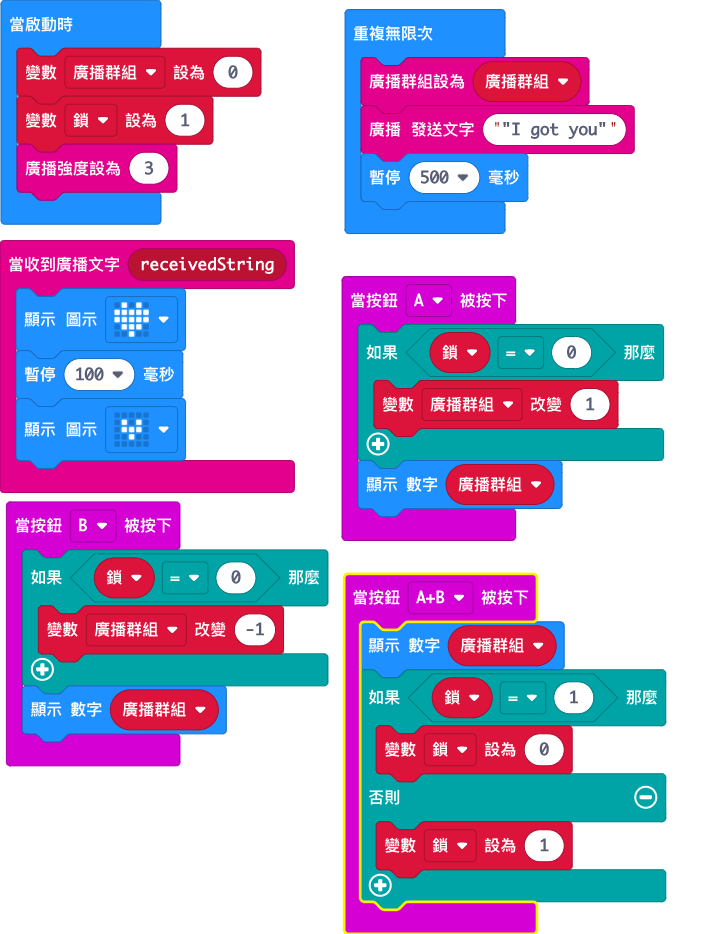
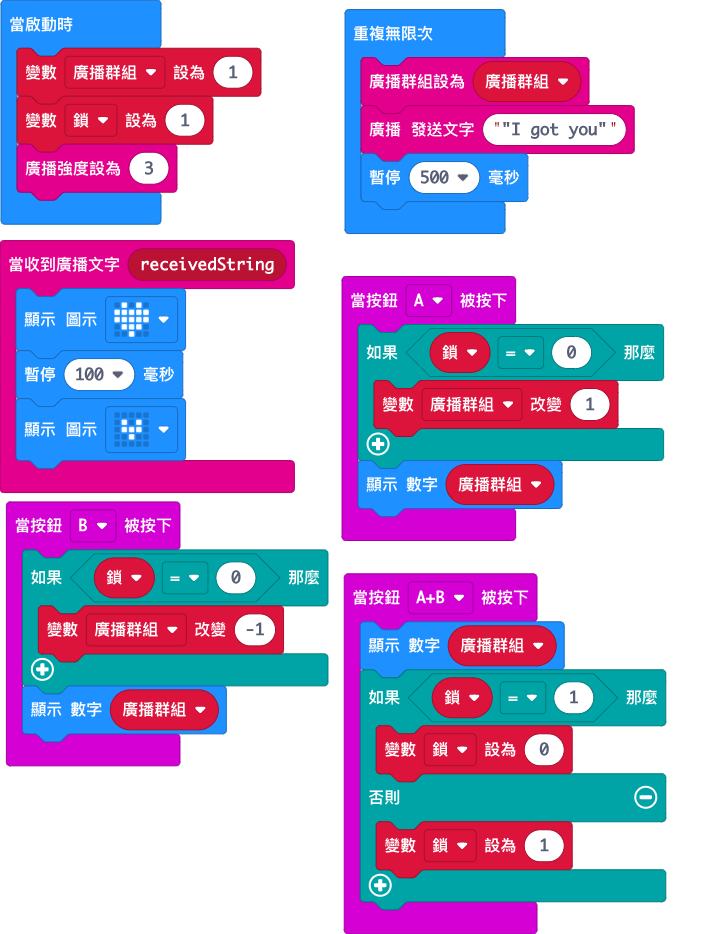
CHG initial channel

Changed region(s): [[0.4571, 0.621, 0.7618, 1.0], [0.4875, 0.5899, 0.7313, 0.621], [0.3047, 0.0621, 0.3352, 0.0931]]

diff --git a/main.ts b/main.ts
@@ -25,7 +25,7 @@ input.onButtonPressed(Button.B, function () {
 })
 let 鎖 = 0
 let 廣播群組 = 0
-廣播群組 = 0
+廣播群組 = 1
 鎖 = 1
 radio.setTransmitPower(3)
 basic.forever(function () {
